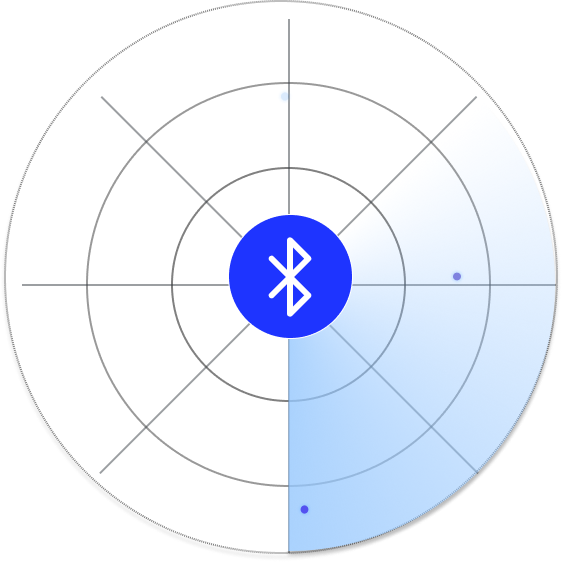
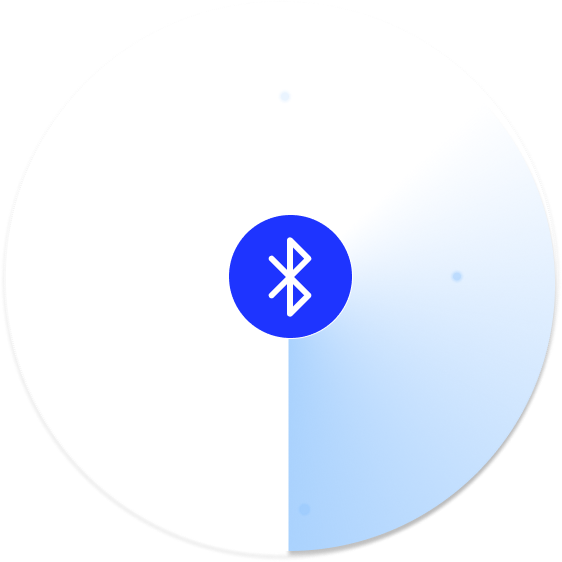
Change color palette

diff --git a/lib/screens/login.dart b/lib/screens/login.dart
@@ -31,9 +31,9 @@ class _LoginState extends State<Login> {
       home: Scaffold(
         resizeToAvoidBottomInset:
             false, //prevents resizing of widgets from keyboard popup
-        backgroundColor: Colors.white,
+        backgroundColor: globals.colorDark,
         appBar: AppBar(
-          backgroundColor: Colors.blue.shade800,
+          backgroundColor: globals.colorHighlight,
           title: const Text("Login"),
           centerTitle: true,
           titleTextStyle: globals.defaultFontHeader,
@@ -81,7 +81,7 @@ class _LoginState extends State<Login> {
                             15.0,
                           ))
                     ],
-                    color: Colors.white,
+                    color: globals.colorLight,
                     borderRadius: BorderRadius.circular(10),
                   ),
                   child: Column(
@@ -95,7 +95,7 @@ class _LoginState extends State<Login> {
                               labelText: 'Email',
                               labelStyle: globals.defaultFontText,
                               prefixIcon: const Icon(Icons.person),
-                              fillColor: Colors.white),
+                              fillColor: globals.colorLight),
                         ),
                       ),
                       Padding(
@@ -107,7 +107,7 @@ class _LoginState extends State<Login> {
                               labelText: 'Password',
                               labelStyle: globals.defaultFontText,
                               prefixIcon: const Icon(Icons.lock),
-                              fillColor: Colors.white),
+                              fillColor: globals.colorLight),
                         ),
                       ),
                       TextButton (
@@ -128,6 +128,7 @@ class _LoginState extends State<Login> {
                                 padding: MaterialStateProperty.all<EdgeInsets>(
                                   const EdgeInsets.all(15)
                                 ),
+                                backgroundColor: MaterialStateProperty.all(globals.colorHighlight),
                                 shape: MaterialStateProperty.all<RoundedRectangleBorder>(
                                       RoundedRectangleBorder(
                                 borderRadius: BorderRadius.circular(10.0),
@@ -149,21 +150,20 @@ class _LoginState extends State<Login> {
               ),
               Expanded (
                 flex: 1,
-                child: Container(
-                  child: TextButton (
-                          child: Text(
-                            "New User? Register here!",
-                            style: GoogleFonts.lato(
-                              fontSize: 18,
-                              fontWeight: FontWeight.w800,
-                            ),
+                child: TextButton (
+                        onPressed: () {
+                          Navigator.push(context,
+                               MaterialPageRoute(builder: (_) => const Register()));
+                        },
+                        child: Text(
+                          "New User? Register here!",
+                          style: GoogleFonts.lato(
+                            fontSize: 18,
+                            fontWeight: FontWeight.w800,
+                            color: globals.colorHighlight,
                           ),
-                          onPressed: () {
-                            Navigator.push(context,
-                                 MaterialPageRoute(builder: (_) => const Register()));
-                          },
                         ),
-                ),  
+                      ),  
               )
             ],
           ),

diff --git a/lib/screens/register.dart b/lib/screens/register.dart
@@ -17,9 +17,9 @@ class _RegisterState extends State<Register> {
     return Scaffold(
         resizeToAvoidBottomInset:
             false, //prevents resizing of widgets from keyboard popup
-        backgroundColor: Colors.white,
+        backgroundColor: globals.colorDark,
         appBar: AppBar(
-          backgroundColor: Colors.blue.shade800,
+          backgroundColor: globals.colorHighlight,
           title: const Text("Register"),
           centerTitle: true,
           titleTextStyle: globals.defaultFontHeader,
@@ -67,7 +67,7 @@ class _RegisterState extends State<Register> {
                             15.0,
                           )),
                     ],
-                    color: Colors.white,
+                    color: globals.colorLight,
                     borderRadius: BorderRadius.circular(10),
                   ),
                   child: Column(
@@ -81,7 +81,7 @@ class _RegisterState extends State<Register> {
                               labelText: 'Email',
                               labelStyle: globals.defaultFontText,
                               prefixIcon: const Icon(Icons.person),
-                              fillColor: Colors.white),
+                              fillColor: globals.colorLight),
                         ),
                       ),
                       Padding(
@@ -93,7 +93,7 @@ class _RegisterState extends State<Register> {
                               labelText: 'Password',
                               labelStyle: globals.defaultFontText,
                               prefixIcon: const Icon(Icons.lock),
-                              fillColor: Colors.white),
+                              fillColor: globals.colorLight),
                         ),
                       ),
                       Padding(
@@ -105,7 +105,7 @@ class _RegisterState extends State<Register> {
                               labelText: 'Confirm Password',
                               labelStyle: globals.defaultFontText,
                               prefixIcon: const Icon(Icons.lock),
-                              fillColor: Colors.white),
+                              fillColor: globals.colorLight),
                         ),
                       ),
                       Container(
@@ -117,6 +117,7 @@ class _RegisterState extends State<Register> {
                                 padding: MaterialStateProperty.all<EdgeInsets>(
                                   const EdgeInsets.all(15)
                                 ),
+                                backgroundColor: MaterialStateProperty.all(globals.colorHighlight),
                                 shape: MaterialStateProperty.all<RoundedRectangleBorder>(
                                       RoundedRectangleBorder(
                                 borderRadius: BorderRadius.circular(10.0),

diff --git a/lib/globals.dart b/lib/globals.dart
@@ -9,6 +9,10 @@ const double textSizeDefault = 16;
 const double headTextSizeDefault = 24;
 const double titleTextSizeDefault = 36;
 
+const Color colorLight = Color(0xffEEEEEE);
+const Color colorDark = Color(0xff222831);
+const Color colorHighlight = Color(0xff00ADB5);
+
 bool isLoggedin = false;
 
 /// Alterable font sizes
@@ -19,6 +23,7 @@ double titleTextSize = 36;
 TextStyle defaultFontTitle = GoogleFonts.lato(
   fontSize: titleTextSize,
   fontWeight: FontWeight.w600,
+  color: colorLight,
 );
 
 TextStyle defaultFontHeader = GoogleFonts.lato(

diff --git a/lib/screens/home.dart b/lib/screens/home.dart
@@ -9,7 +9,7 @@ class HomeScreen extends StatelessWidget {
     return Scaffold(
         resizeToAvoidBottomInset:
             false, //prevents resizing of widgets from keyboard popup
-        backgroundColor: Colors.white,
+        backgroundColor: globals.colorDark,
         appBar: AppBar(
           automaticallyImplyLeading: false,
           backgroundColor: Colors.blue.shade800,
